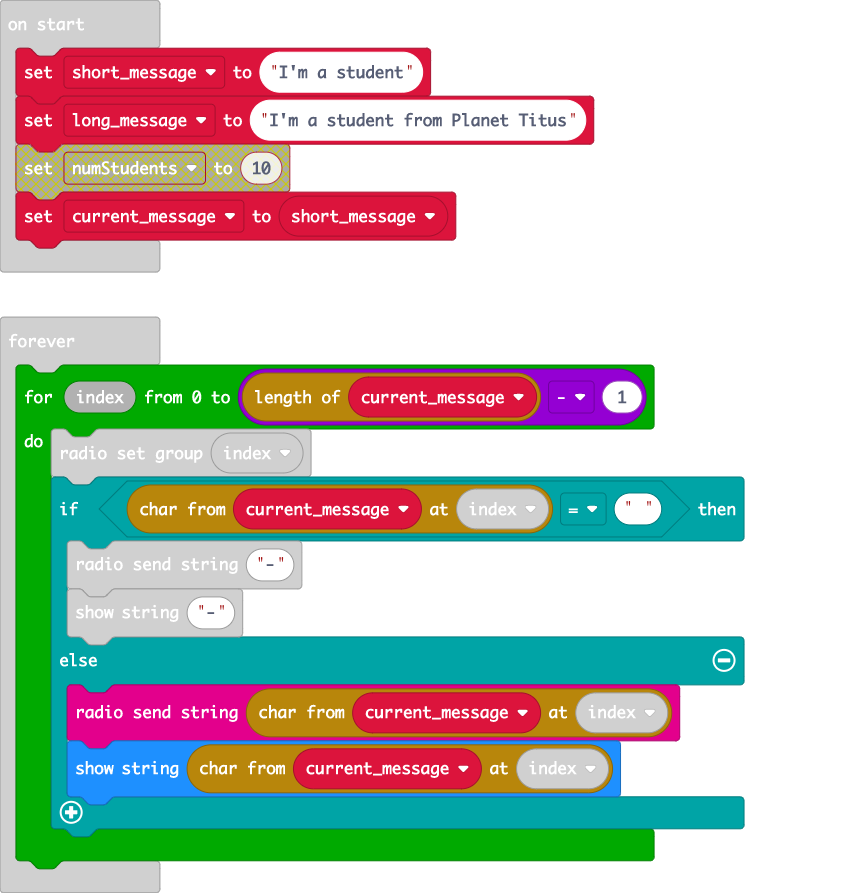
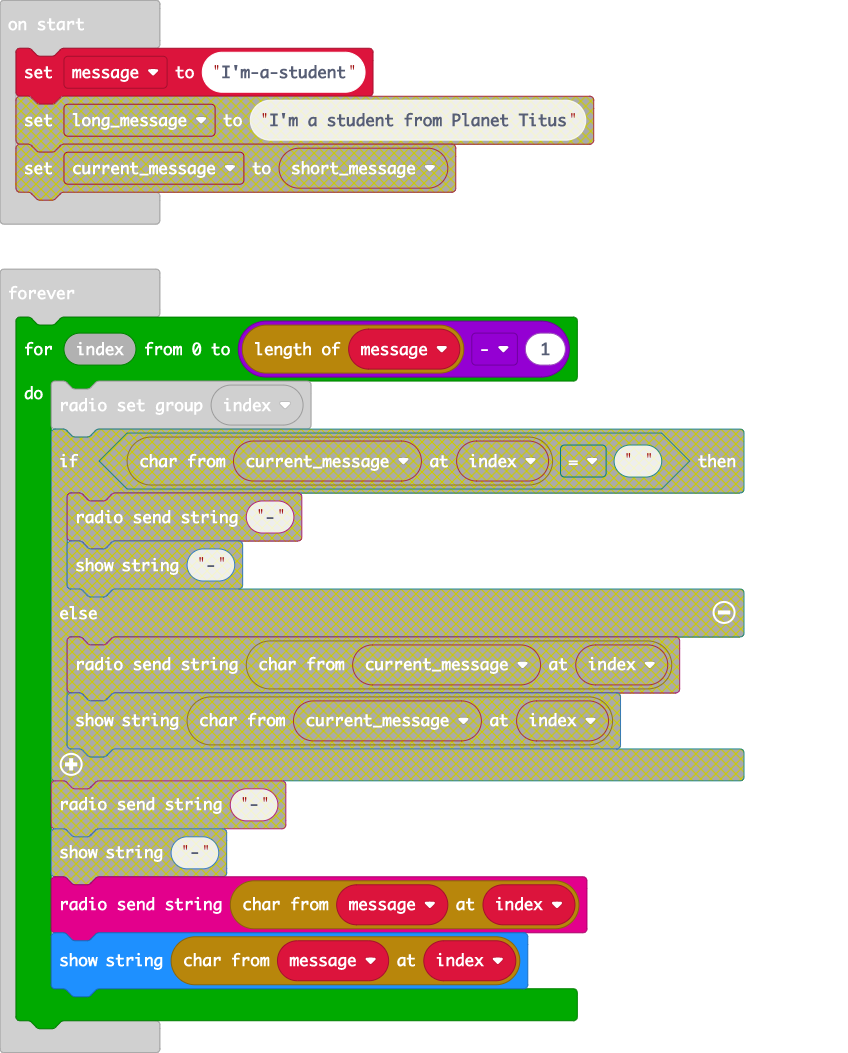
Update main.blocks, main.ts

diff --git a/main.ts b/main.ts
@@ -1,15 +1,8 @@
-let short_message = "I'm a student"
-let long_message = "I'm a student from Planet Titus"
-let current_message = short_message
+let message = "I'm-a-student"
 basic.forever(function () {
-    for (let index = 0; index <= current_message.length - 1; index++) {
+    for (let index = 0; index <= message.length - 1; index++) {
         radio.setGroup(index)
-        if (current_message.charAt(index) == " ") {
-            radio.sendString("-")
-            basic.showString("-")
-        } else {
-            radio.sendString(current_message.charAt(index))
-            basic.showString(current_message.charAt(index))
-        }
+        radio.sendString(message.charAt(index))
+        basic.showString(message.charAt(index))
     }
 })
